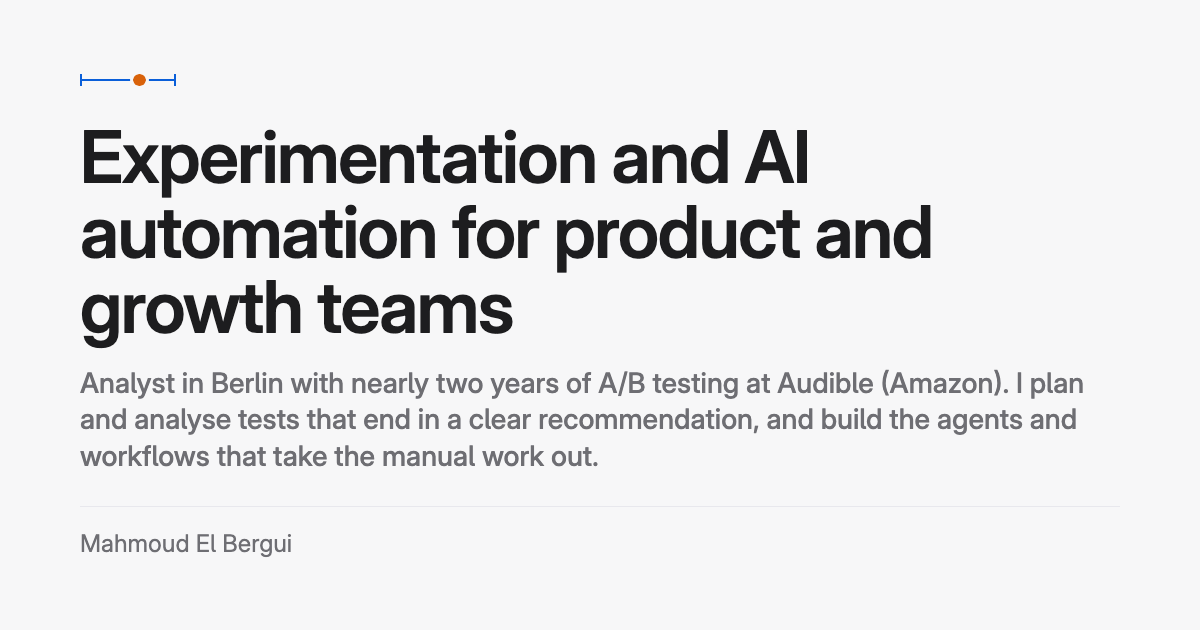
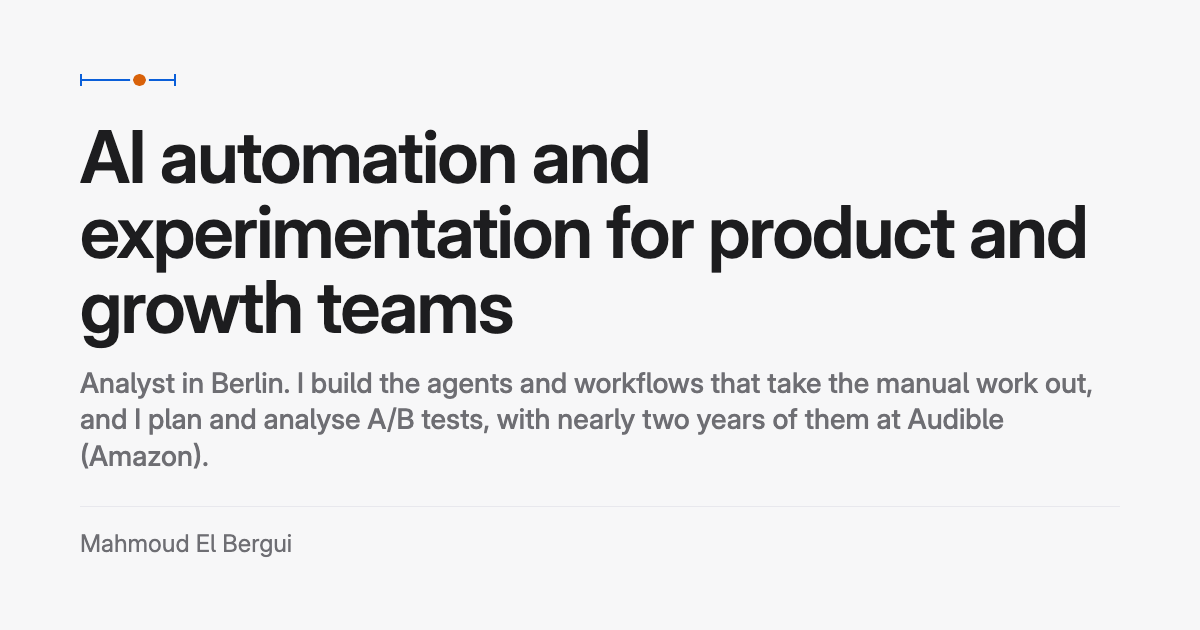
refactor(home): explicit hero sub parts, the turning sketch moves to the Work band, catalogue rows
The hero sub line had been split at its first comma; it now has its own
end and rest parts. The site band left Home, so its turning confidence
sketch now plays in the same band on /work, and the unused SiteTile goes.

Changed region(s): [[0.0617, 0.2111, 0.925, 0.4222], [0.0617, 0.573, 0.925, 0.754]]

diff --git a/tests/unit/home/sections.test.tsx b/tests/unit/home/sections.test.tsx
@@ -26,7 +26,6 @@ const { FeaturedCases } = await import('@/components/home/FeaturedCases');
 const { AutomationTrack } = await import('@/components/home/AutomationTrack');
 const { QuestionsRows } = await import('@/components/home/QuestionsRows');
 const { AutomateRow } = await import('@/components/home/AutomateRow');
-const { SiteTile } = await import('@/components/home/SiteTile');
 const { HomeFaq } = await import('@/components/home/HomeFaq');
 const { HomeCallToAction } = await import('@/components/home/HomeCallToAction');
 
@@ -410,45 +409,6 @@ describe('QuestionsRows', () => {
   it('holds no link and no digit', () => {
     expect(all(section, (el) => el.tagName === 'a')).toEqual([]);
     expect(text(section)).not.toMatch(/\d/);
-  });
-});
-
-describe('SiteTile: the site band', () => {
-  const html = render(createElement(SiteTile));
-  const d = doc(html);
-  const root = one(d, (el) => has(el, 'data-home-site'));
-
-  it('takes no props: the same band for every visitor and every state', () => {
-    expect(SiteTile.length).toBe(0);
-  });
-
-  it('is a white card on the frame: chip "Live test", the two-tone h2, the sentence and two buttons', () => {
-    expect(root.tagName).toBe('section');
-    expect(has(root, 'data-rule')).toBe(true);
-    const tile = one(root, (el) => has(el, 'data-tile'));
-    expect(attr(tile, 'data-tile')).toBe('');
-    expect(text(one(root, (el) => has(el, 'data-chip')))).toBe('Live test');
-    const h2 = one(root, (el) => el.tagName === 'h2');
-    expect(squash(text(h2))).toBe('This site is part of the evidence.');
-    expect(text(one(h2, (el) => has(el, 'data-quiet')))).toBe('part of the evidence.');
-    expect(attr(root, 'aria-labelledby')).toBe(attr(h2, 'id'));
-    expect(text(one(root, (el) => has(el, 'data-home-site-text')))).toBe(
-      'It runs an A/B test on the three experiment cards above. The plan was published before the test started, and the data is public. I built it with coding agents, and every change passes its automated checks before it ships.',
-    );
-    const buttons = all(root, (el) => el.tagName === 'a');
-    expect(buttons.map((a) => text(a))).toEqual(['See the live test', 'Try the Lab']);
-    expect(buttons.map((a) => attr(a, 'href'))).toEqual([HOME_LINKS.experiment, HOME_LINKS.lab]);
-  });
-
-  it('has a tilted sketch of a confidence chart, an illustration with no text in its SVG', () => {
-    const [v] = expectVignettes(root, 1);
-    expect(sketchOf(v!)).toBe('confidence');
-    for (const svg of all(v!, (el) => el.tagName === 'svg')) expect(all(svg, (el) => el.tagName === 'text')).toEqual([]);
-  });
-
-  it('holds no note and types no numeral', () => {
-    expect(all(d, (el) => has(el, 'data-home-note'))).toEqual([]);
-    expect(text(d)).not.toMatch(/\d|more than/);
   });
 });
 

diff --git a/src/components/work/WorkPage.tsx b/src/components/work/WorkPage.tsx
@@ -121,7 +121,7 @@ export function WorkPage(): ReactNode {
       ))}
 
       <div data-rule="" className="pb-12 pt-12 md:pb-16 md:pt-16">
-        <Tile data-work-site="" data-depth-rise="">
+        <Tile data-work-site="">
           <div className="grid grid-cols-1 items-center gap-10 lg:grid-cols-[1.1fr_1fr]">
             <div>
               <Chip dot="live">Live test</Chip>
@@ -135,14 +135,19 @@ export function WorkPage(): ReactNode {
                 </ButtonLink>
               </div>
             </div>
-            {/* The sketch Home shows in the same band, at the same resting tilt. Here it stays still: it
-                neither turns in nor follows the pointer. Decorative, so hidden from assistive technology. */}
+            {/* The sketch turns in on its centre to its resting tilt as it enters, then leans a little to a
+                fine pointer with a sheen that follows it (the Turn family). Its band is never drawn on: a
+                band that grows would read as live data. Decorative, so hidden from assistive technology. */}
             <div
               data-work-site-sketch=""
+              data-depth-turn=""
+              data-depth-follow=""
               aria-hidden="true"
-              className="overflow-clip rounded-xl border border-hairline lg:transform-[perspective(56rem)_rotateY(-14deg)_rotateX(6deg)] [&>[data-vignette]]:h-60 [&>[data-vignette]]:border-t-0"
+              className="overflow-clip rounded-xl border border-hairline lg:transform-[perspective(56rem)_rotateY(-14deg)_rotateX(6deg)]"
             >
-              <ConfidenceSketch />
+              <div data-site-sketch="" className="[&>[data-vignette]]:h-60 [&>[data-vignette]]:border-t-0">
+                <ConfidenceSketch />
+              </div>
             </div>
           </div>
         </Tile>

diff --git a/content/home.ts b/content/home.ts
@@ -34,7 +34,10 @@ export const HOME_HERO = {
     lead: 'Analyst in Berlin. I build the ',
     chips: ['agents', 'workflows'],
     join: ' and ',
-    end: ' that take the manual work out, and I plan and analyse A/B tests, with nearly two years of them at Audible (Amazon).',
+    /** Kept on one line with the second chip from sm up. */
+    end: ' that take the manual work out',
+    /** Wraps as plain text. */
+    rest: ', and I plan and analyse A/B tests, with nearly two years of them at Audible (Amazon).',
   },
   cv: 'Read my CV',
   contact: 'Write to me',
@@ -50,8 +53,8 @@ export const HOME_HERO = {
 
 /** The hero's sub line as one string, the two chips' words in place. */
 export function heroSubText(): string {
-  const { lead, chips, join, end } = HOME_HERO.sub;
-  return `${lead}${chips[0]}${join}${chips[1]}${end}`;
+  const { lead, chips, join, end, rest } = HOME_HERO.sub;
+  return `${lead}${chips[0]}${join}${chips[1]}${end}${rest}`;
 }
 
 /** Every word the band prints, the caption last. */
@@ -343,13 +346,6 @@ export const HOME_SITE = {
   live: 'See the live test',
   lab: 'Try the Lab',
 } as const;
-
-/** The site band's head on Home: the same headline in two tones. */
-export const HOME_SITE_HEAD = {
-  chip: 'Live test',
-  title: 'This site is',
-  quiet: 'part of the evidence.',
-} as const satisfies SectionCopy;
 
 /**
  * A part of a FAQ answer: text, a fact, a link (a site path, or a repository the site already links,

diff --git a/tests/unit/home/content.test.ts b/tests/unit/home/content.test.ts
@@ -15,7 +15,6 @@ import {
   heroSubText,
   HOME_PROOF,
   HOME_SITE,
-  HOME_SITE_HEAD,
   HOME_TRACKS,
   HOME_HOW,
   HOME_EXPERIMENTS_HEAD,
@@ -277,7 +276,7 @@ describe('the automation cards', () => {
 
 /** Every string of the moved sections (heads, tabs, lines, questions) and the site band's head. */
 const sectionCopy = (): string[] => [
-  ...[HOME_HOW.head, HOME_EXPERIMENTS_HEAD, HOME_AUTOMATION_HEAD, HOME_QUESTIONS.head, HOME_SITE_HEAD, HOME_FAQ.head].flatMap((h) => Object.values(h) as string[]),
+  ...[HOME_HOW.head, HOME_EXPERIMENTS_HEAD, HOME_AUTOMATION_HEAD, HOME_QUESTIONS.head, HOME_FAQ.head].flatMap((h) => Object.values(h) as string[]),
   ...HOME_HOW.tabs.flatMap((t) => [t.title, t.line]),
   ...HOME_AUTOMATE_LINES,
   ...HOME_QUESTIONS.rows.flat(),
@@ -303,7 +302,6 @@ describe('the hero, proof row, the sections and the site band', () => {
       live: 'See the live test',
       lab: 'Try the Lab',
     });
-    expect(HOME_SITE_HEAD).toEqual({ chip: 'Live test', title: 'This site is', quiet: 'part of the evidence.' });
   });
 
   it('say the approved "How I test" and "I automate." lines word for word, in the tabs and the row under the cards', () => {

diff --git a/tests/unit/build-notes/work.test.tsx b/tests/unit/build-notes/work.test.tsx
@@ -210,12 +210,12 @@ describe('the layout', () => {
     // Its heading is a section heading like the groups', never as large as the page title.
     const h2 = /<h2 class="([^"]*)"/.exec(tile)![1]!.split(/\s+/);
     expect(h2).toEqual(expect.arrayContaining(['text-h2-sm', 'md:text-h2']));
-    // The sketch is the shared one, decorative, and it stays still here: no entry turn and no pointer follow.
+    // The sketch is the shared one, decorative, and it turns in and follows a fine pointer (the Turn family; Home no longer has the band).
     const { ConfidenceSketch } = await import('@/components/frame/sketches');
     const sketch = tile.slice(tile.indexOf('<div data-work-site-sketch'));
     expect(sketch).toContain(html(createElement(ConfidenceSketch)));
-    expect(sketch).toMatch(/^<div data-work-site-sketch="" aria-hidden="true"/);
-    expect(tile).not.toMatch(/data-depth-turn|data-depth-follow/);
+    expect(sketch).toMatch(/^<div data-work-site-sketch="" data-depth-turn="" data-depth-follow="" aria-hidden="true"[^>]*rotateY\(-14deg\)[^>]*><div data-site-sketch=""/);
+    expect(sketch).not.toMatch(/<path[^>]*data-depth/);
   });
 });
 

diff --git a/tests/unit/depth/motion-families.test.ts b/tests/unit/depth/motion-families.test.ts
@@ -152,9 +152,9 @@ describe('Turn', () => {
     expect(kf).toMatch(/from\s*\{\s*transform:\s*perspective\(56rem\) rotateY\(-28deg\) rotateX\(10deg\) translateZ\(-120px\);\s*\}/);
     expect(kf).not.toMatch(/\bto\b|100%/);
     expect(families).toMatch(/\[data-depth-turn\]\s*\{[^}]*transform-origin:\s*50% 50%[^}]*animation:\s*depth-turn linear backwards[^}]*animation-range:\s*entry 10% cover 45%/);
-    const { SiteTile } = await import('@/components/home/SiteTile');
-    const html = renderToStaticMarkup(createElement(SiteTile));
-    expect(html).toMatch(/<div data-depth-turn="" data-depth-follow=""[^>]*rotateY\(-14deg\)[^>]*><div data-site-sketch=""/);
+    const { WorkPage } = await import('@/components/work/WorkPage');
+    const html = renderToStaticMarkup(createElement(WorkPage));
+    expect(html).toMatch(/<div data-work-site-sketch="" data-depth-turn="" data-depth-follow=""[^>]*rotateY\(-14deg\)[^>]*><div data-site-sketch=""/);
     expect(html).not.toMatch(/<path[^>]*data-depth/);
   });
 

diff --git a/tests/unit/seo/metadata.test.ts b/tests/unit/seo/metadata.test.ts
@@ -492,8 +492,8 @@ describe('sharingTemplate', () => {
     );
     expect(card.sub).toBe(SITE_SHARING_LINE);
     // The line is the hero's sub line, its two inline chips as plain lower-case words.
-    const { lead, chips, join, end } = HOME_HERO.sub;
-    expect(SITE_SHARING_LINE).toBe(`${lead}${chips[0].toLowerCase()}${join}${chips[1].toLowerCase()}${end}`);
+    const { lead, chips, join, end, rest } = HOME_HERO.sub;
+    expect(SITE_SHARING_LINE).toBe(`${lead}${chips[0].toLowerCase()}${join}${chips[1].toLowerCase()}${end}${rest}`);
     expect(SITE_SHARING_HEADLINE).toBe(`${HEADLINE.lead} ${HEADLINE.quiet}`);
     expect(card.footer).toBe(SITE.name);
     expect(card.proof).toBeUndefined();

diff --git a/tests/unit/remaining/traceability.test.ts b/tests/unit/remaining/traceability.test.ts
@@ -234,6 +234,7 @@ describe('no client module reaches the raw experiment data', () => {
     const fromRoute = [...reachable('src/app/experiment/page.tsx').keys()];
     expect(fromRoute).toEqual(expect.arrayContaining(['src/lib/experiment/live.ts', 'src/lib/live-page/model.ts']));
     for (const f of SERVER_ONLY) expect(existsSync(path.join(ROOT, f)), f).toBe(true);
-    expect(valueImports('src/components/home/SiteTile.tsx')).not.toContain('src/lib/home/model.ts');
+    // ExperimentsTrack imports the Home model for its type only.
+    expect(valueImports('src/components/home/ExperimentsTrack.tsx')).not.toContain('src/lib/home/model.ts');
   });
 });

diff --git a/src/components/home/Hero.tsx b/src/components/home/Hero.tsx
@@ -47,9 +47,9 @@ export function Hero() {
               wraps freely); the rest of the sentence wraps as text. */}
           <span data-hero-tail="">
             <Chip inline>{sub.chips[1]}</Chip>
-            {sub.end.slice(0, sub.end.indexOf(','))}
+            {sub.end}
           </span>
-          {sub.end.slice(sub.end.indexOf(','))}
+          {sub.rest}
         </p>
         <div data-hero-actions="">
           <Step d={1}>

diff --git a/CLAUDE.md b/CLAUDE.md
@@ -229,15 +229,14 @@ Page-level parts built from the kit. They live outside the kit (`src/components/
 | `FeaturedCases` | `src/components/home/FeaturedCases.tsx` | The cards region the experiment watches (`data-experiment="cards"`, labelled "Featured case studies"): three `CaseCard`s, each ending in its study's sketch, stacked below `lg`, three columns from `lg`. |
 | `Parts` | `src/components/home/Parts.tsx` | Content parts from `content/home.ts` (plain text and `{ fact }`) rendered with the kit's `Fact`. |
 | `EagerOrIntent` | `src/components/figures/EagerOrIntent.tsx` (client) | Wraps `LoadOnIntent`: a URL key in one of the given Figure namespaces loads the island right after hydration (`eager`), anything else waits for intent. The query is read from `location` with `useSyncExternalStore` (server snapshot "not eager"), never with `useSearchParams`, so a static page hydrates in place. |
-| `HomeSections`, `HomeBody` | `src/components/home/HomeSections.tsx` | The Home page below the header, in page order at every width: `LiveBar` (with the `LiveNote`, in a `data-home-note` box), `Hero` (with the `StackBand`), `ExperienceBand`, `ProofRow`, `HowITest`, `ExperimentsTrack`, `AutomationTrack`, `QuestionsRows`, `ToolsBand`, `SiteTile`, `HomeFaq` and `HomeCallToAction`. One server composition for `/v/[arm]` (which renders the beacon first) and the test build's host (no beacon); it takes the server-only Home model and hands each part only what it needs (the bar the rendered note, the cards the headline group, the line at the cards the phase). |
+| `HomeSections`, `HomeBody` | `src/components/home/HomeSections.tsx` | The Home page below the header, in page order at every width: `LiveBar` (with the `LiveNote`, in a `data-home-note` box), `Hero` (with the `StackBand`), `ExperienceBand`, `ProofRow`, `AutomationTrack`, `ExperimentsTrack` and `HomeCallToAction`. One server composition for `/v/[arm]` (which renders the beacon first) and the test build's host (no beacon); it takes the server-only Home model and hands each part only what it needs (the bar the rendered note, the cards the headline group, the line at the cards the phase). |
 | `ProofRow` | `src/components/home/ProofRow.tsx` | The proof: four ruled cells, two for experiments and two for automation, each number a Fact. The "Why so many?" link keeps its place at the end of the adoption caption. |
 | `ExperimentsTrack`, `cardLinePhase` | `src/components/home/ExperimentsTrack.tsx` | The experiments track (`#work`): the section head "Open the work and see how it was done.", the phase line, then the three featured cards, which are the live experiment's cards region. |
-| `AutomationTrack` | `src/components/home/AutomationTrack.tsx` | The automation track: the section head, four lean cards with sketches to the pages that tell each story, then one ruled row with the three "I automate." lines. |
-| `HowITest` | `src/components/home/HowITest.tsx` | "How I test": three tabs (native radios in their labels, the first checked) and one decorative sketch panel per tab, shown by CSS `:has(:checked)`, so it works without JavaScript. |
-| `QuestionsRows` | `src/components/home/QuestionsRows.tsx` | Two rows of question chips that slide in opposite directions with the scroll (the ribbon's `data-depth-ribbon` mechanic, the second reversed); static and wrapped without scroll timelines or with reduced motion. |
-| `ToolsBand` | `src/components/home/ToolsBand.tsx` | "Tools I have shipped with": a centred line and a static grid of chips from the About page's own list. |
-| `SiteTile` | `src/components/home/SiteTile.tsx` | The site band, a white card on the frame: chip "Live test", "This site is part of the evidence." in two tones, the sentence, two buttons and a tilted confidence-chart sketch. No props, no note. |
-| `HomeFaq` | `src/components/home/HomeFaq.tsx` | The Home FAQ: the frame's `Faq` with the questions hiring teams ask; each figure in an answer is a Fact. |
+| `AutomationTrack` | `src/components/home/AutomationTrack.tsx` | The automation track, above the experiments track: the section head and four lean cards with sketches to the pages that tell each story. |
+| `HowITest` | `src/components/home/HowITest.tsx` | "How I test", on `/work` after the page head: three tabs (native radios in their labels, the first checked) and one decorative sketch panel per tab, shown by CSS `:has(:checked)`, so it works without JavaScript. |
+| `QuestionsRows` | `src/components/home/QuestionsRows.tsx` | On `/about`, after the story: two rows of question chips that slide in opposite directions with the scroll (the ribbon's `data-depth-ribbon` mechanic, the second reversed); static and wrapped without scroll timelines or with reduced motion. |
+| `HomeFaq` | `src/components/home/HomeFaq.tsx` | The FAQ, on `/about` before the call to action: the frame's `Faq` with the questions hiring teams ask; each figure in an answer is a Fact. |
+| `AutomateRow` | `src/components/home/AutomateRow.tsx` | One ruled row with the three "I automate." lines (`HOME_AUTOMATE_LINES`), at the end of the `/work` Automation group. |
 | `HomeCallToAction` | `src/components/home/HomeCallToAction.tsx` | The dark call to action that ends Home: the frame's `CallToAction` with the shared words (`PAGE_CTA`) and the About page's portrait, loaded lazily. |
 | `ProcessSketch`, `CohortsSketch`, `EventsSketch`, `ChecksSketch`, `StepsSketch`, `AgentsSketch`, `WorkflowSketch`, `VariantsSketch`, `PlanSketch`, `ReadSketch`, `RecommendSketch`, `ConfidenceSketch`, `CASE_SKETCHES`, `AUTOMATION_SKETCHES`, `HOW_SKETCHES` | `src/components/frame/sketches.tsx` | The site's one set of vignettes, each inside the frame's `Vignette` (decorative, untagged): Home and the Work index draw the same sketch for the same project. No digits, no real figures and no confidential metric names; the employer card shows the process (planned, set, defined, written), never a result; the Pulse sketch's event names are typed against the Pulse export. |
 | `ReturnsFigure` | `src/components/retention/ReturnsFigure.tsx` | The returns-cleaning Figure (`returns`): returned-order value per month from the retail export, with reversed orders counted or removed (Segmented and Reset, preset removed). The value axis is the same in both modes, the partial last month is an outline, and the growth compares January to November of both years. The server draws the preset and the open table; the island (`ReturnsFigureClient.tsx`, `ReturnsInteractive.tsx`) gets only the monthly rows (`src/lib/retention/returns.ts`). Its `faultAfterChange` prop is a test seam that only a dev host may set (`tests/unit/lab/fault-seam-guard.test.ts`). |
@@ -266,7 +265,7 @@ Page-level parts built from the kit. They live outside the kit (`src/components/
 | `RetentionPage`, `RETENTION_SECTIONS` | `src/components/retention/RetentionPage.tsx` | The Retention case study, the golden page (below): the analysis template's sections in order, each a `<section>` with an id and its own h2, the four Figures above and the two open sizing tables with their badges. Its prose comes from `content/retention.tsx`. Optional `planner` places a planner Figure in the win-back section, after the sourced sizing table and before the links to the Lab. `RetentionCaseStudy` is the page as it ships, with `FullPlanner` (`winback` and `winback-duration`, `context="retention"`) as its planner; `src/app/work/retention/page.tsx` and its dev host both mount it. |
 | `MarketingwsPage`, `MARKETINGWS_SECTIONS`, `MARKETINGWS_TITLE` | `src/components/marketingws/MarketingwsPage.tsx` | The MarketingWS build note, in the shared `BuildNote` frame, with the problem, the architecture, how I checked this, the outcome, the limits, and the sources and links (the section names and anchors every build note shares). The architecture is a diagram Figure (`marketingws-steps`): the steps of one request as an ordered list of outlined boxes (brief, draft, check, translate, output, each a `DiagramStep`) joined by `DiagramConnector`s, so the list is its text. No figure, no island and no motion; the repository links are pinned to commits, and the demo link carries its free-tier note in the same list item. Its prose comes from `content/marketingws.tsx`. Mounted by `src/app/work/marketingws/page.tsx`. |
 | `DocproofPage`, `DOCPROOF_SECTIONS`, `DocproofDiagram` | `src/components/docproof/DocproofPage.tsx` | The Docproof build note at `/work/docproof`, in the shared `BuildNote` frame: the problem, the architecture with its diagram Figure (`docproof-architecture`: input, orchestration, checks and report as an ordered list of `DiagramStep`s in a grid, no badge, table or controls), "How I checked this" with one recorded run of the verify check, the outcome, the limits, and "Sources and links" (the section names every build note shares). Its prose and the recorded run (inputs, command and output exactly as captured, marked `build`; "Not recorded" without one) come from `content/docproof.tsx`. |
-| `WorkPage`, `WORK_SECTIONS`, `WORK_TITLE` | `src/components/work/WorkPage.tsx` | The Work directory at `/work`, in the framed look: a `PageHead` (chip "Work", h1 "Open the work" with its quiet clause, the one-line sub), one ruled `<section id>` per group of `content/work.tsx` (a split `SectionHead`: the group's chip, its name as the h2, its lede as the sub), each group a three-column bento of `LeanCard`s, each ending in the same sketch Home draws for that project (`src/components/frame/sketches.tsx`), a white site band (chip "Live test", the two-tone h2) and the shared `PageCallToAction`. Section anchors come from the group id (`#experimentation`, `#automation`, `#pipelines`). Mounted by `src/app/work/page.tsx`. |
+| `WorkPage`, `WORK_SECTIONS`, `WORK_TITLE` | `src/components/work/WorkPage.tsx` | The Work directory at `/work`, in the framed look: a `PageHead` (chip "Work", h1 "Open the work" with its quiet clause, the one-line sub), `HowITest`, one ruled `<section id>` per group of `content/work.tsx` (a split `SectionHead`: the group's chip, its name as the h2, its lede as the sub), each group a three-column bento of `LeanCard`s, each ending in the same sketch Home draws for that project (`src/components/frame/sketches.tsx`), the `AutomateRow` at the end of the Automation group, a white site band (chip "Live test", the two-tone h2, the confidence sketch that turns in and follows a fine pointer, the Turn family) and the shared `PageCallToAction`. Section anchors come from the group id (`#experimentation`, `#automation`, `#pipelines`). Mounted by `src/app/work/page.tsx`. |
 | `CaseHead` | `src/components/work/CaseHead.tsx` | The top of a case study, a build note, the Lab, the Live test and the Contact page: a chip, the page's own h1 at the h2 size, its standfirst as block content and an optional role line. Used where the standfirst is not one plain sentence (otherwise `PageHead`). |
 | `PageCallToAction`, `PAGE_CTA` | `src/components/shell/PageCallToAction.tsx` | The ink call to action that ends Work, About and every case study and build note: the frame's `CallToAction` with the shared words ("Find out what I can do" / "for your team.", the open-to-roles line, "Write to me", "Read my CV" and the quiet LinkedIn link), in a ruled band, with no portrait. |
 | `FullPlanner` | `src/components/lab/FullPlanner.tsx` | The full sample-size planner. On the Lab (the default context) it is one Figure (`planner`: Sign-up rate today, Smallest rise worth acting on, Visitors per day, Reset; Cohen's h, two-sided, significance level 0.05, power 0.8, equal groups, one look) with two readouts, the visitors per group and the whole weeks, and no unit toggle; the table gives the rise in points and as a percent of the rate today. With `context="retention"` and its own ids it is the Retention page's pair: sizing (Baseline conversion, Rise to detect, MDE unit in points or percent of the baseline, Reset) and duration (Total customers per day, Reset), loaded as one paired island, planning a hypothetical uplift on the win-back's observed baseline. The rise is stored in whole points whatever unit shows it, so a unit switch never changes the sample, and the percent slider steps one point at a time. The server draws the presets and the open tables; `EagerOrIntent` loads the island for a key of its Figures (`src/lib/lab/full-planner.ts`, the client-safe values in `full-planner-values.ts`, copy in `content/lab.tsx`). Its `faultAfterChange` prop is a test seam that only a dev host may set. |
@@ -295,7 +294,7 @@ Page-level parts built from the kit. They live outside the kit (`src/components/
 | `FunnelFigure` | `src/components/live-page/FunnelFigure.tsx` | Beacons received, after the bot filter, counted entry views and cards in view, as a list: the first two totals say "Not published", the last two are the published per-group cells. The exclusions by reason (published cells) and the structural preview row (always 0). A placeholder shows no count. |
 | `DetectableFigure` | `src/components/live-page/DetectableFigure.tsx` | The smallest lift each number of views per group would detect 8 times in 10 at the committed planning click rate, for one look at that size, with the current size marked when the published data gives it; otherwise a sentence says why (no views, a small group, beyond the range, no data). |
 | `ResultsFigure` | `src/components/live-page/ResultsFigure.tsx` | The results under the confidence sequence: the kit's `ConfidenceChart` only when `kitSafe` and its copy is true for the state (no own-view mark); otherwise a page-owned Figure with the last interval drawn (the kit's `NowRow`) or the hollow mark and a sentence, and a table of published cells. Nothing for a placeholder, a failed split check or a failed calibration. |
-| `AboutPage`, `ABOUT_SECTIONS`, `ABOUT_TITLE` | `src/components/about/AboutPage.tsx` | The About page: the photograph (`next/image` at 480 px, 960 px for dense screens, lazy, alt text from `content/about-photo.ts`) beside a five-sentence story, then Timeline, Tools I have shipped with, Languages and CV sections, each a `<section>` named by its h2. Prose from `content/about.tsx`. The CV section links the CV page, and shows `CvDownload` only when the build has a checked PDF. |
+| `AboutPage`, `ABOUT_SECTIONS`, `ABOUT_TITLE` | `src/components/about/AboutPage.tsx` | The About page: the photograph (`next/image` at 480 px, 960 px for dense screens, lazy, alt text from `content/about-photo.ts`) beside a five-sentence story, then `QuestionsRows`, Timeline, Tools I have shipped with, Languages and CV sections, each a `<section>` named by its h2, then `HomeFaq` before the call to action. Prose from `content/about.tsx`. The CV section links the CV page, and shows `CvDownload` only when the build has a checked PDF. |
 | `CvPage`, `CV_SECTIONS` | `src/components/about/CvPage.tsx` | The printable CV page: the web CV PDF's claims (each marked `data-cv-claim`), in the CV's order, from `content/about.tsx`. The contact route is LinkedIn. When the build has a checked PDF, `CvDownload` sits at the top as the one primary button. Printing drops the site header, footer and buttons. |
 | `PrintButton` | `src/components/about/PrintButton.tsx` (client) | "Print this page" on the CV page; hidden until the page has hydrated, since it needs JavaScript. |
 | `CvDownload` | `src/components/about/CvDownload.tsx` | The CV PDF's download button, "Download CV (PDF, <size>)", the size from the build (`data-derived="build"`); hidden in print. Rendered only when the build has a checked PDF. |
